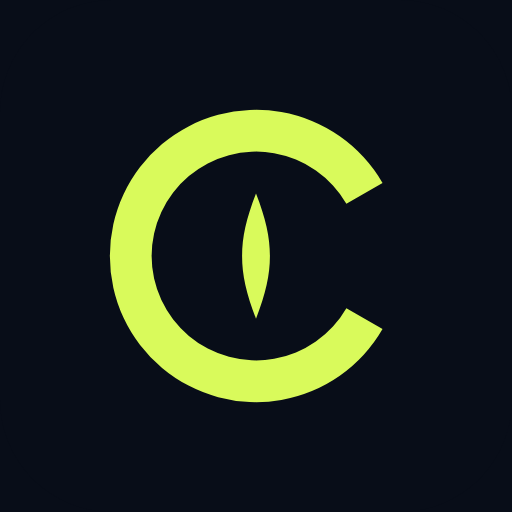
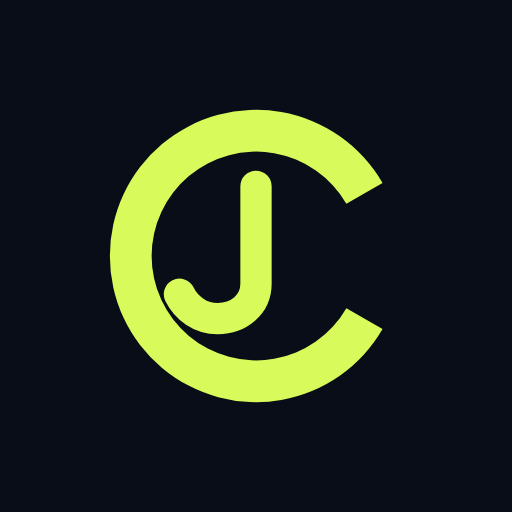
Refine brand mark into C-J ligature

Changed region(s): [[0.3125, 0.3125, 0.5312, 0.6562]]

diff --git a/components/BrandMark.tsx b/components/BrandMark.tsx
@@ -4,7 +4,15 @@ export function BrandMark({ className }: { className?: string }) {
       <path
         fill="currentColor"
         fillRule="evenodd"
-        d="M84.37 69 A42 42 0 1 1 84.37 27 L73.98 33 A30 30 0 1 0 73.98 63 Z M48 30 C50.8 37.2 52 42.5 52 48 C52 53.5 50.8 58.8 48 66 C45.2 58.8 44 53.5 44 48 C44 42.5 45.2 37.2 48 30 Z"
+        d="M84.37 69 A42 42 0 1 1 84.37 27 L73.98 33 A30 30 0 1 0 73.98 63 Z"
+      />
+      <path
+        d="M48 28 V56 C48 62 43 66 37 66 C32 66 28 63 26 59"
+        fill="none"
+        stroke="currentColor"
+        strokeWidth="9"
+        strokeLinecap="round"
+        strokeLinejoin="round"
       />
     </svg>
   );
